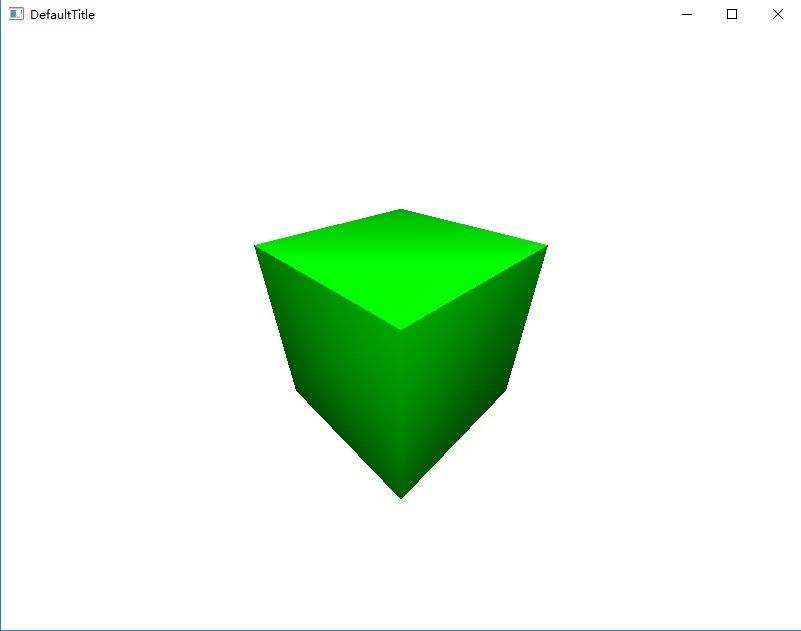
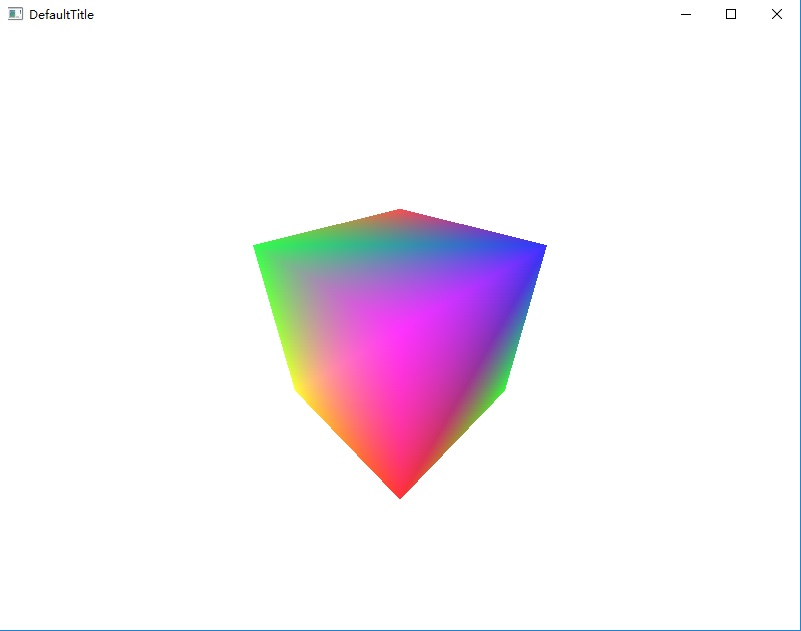
Signed-off-by: zhi <zhi564133873k@126.com>

Changed region(s): [[0.3121, 0.3312, 0.6866, 0.7829], [0.9988, 0.0, 1.0, 1.0], [0.0, 0.0, 0.1248, 0.0301]]

diff --git a/include/zhiDevice.h b/include/zhiDevice.h
@@ -457,18 +457,18 @@ private:
 				if (scanline.v.rhw >= zbuffer[scanline.y][x]) {
 					float w = 1.0f / scanline.v.rhw;
 					zbuffer[scanline.y][x] = scanline.v.rhw;
-					//float r = scanline.v.color.r * w;
-					//float g = scanline.v.color.g * w;
-					//float b = scanline.v.color.b * w;
-					//int R = (int)(r * 255.0f);
-					//int G = (int)(g * 255.0f);
-					//int B = (int)(b * 255.0f);
+					float r = scanline.v.color.r * w;
+					float g = scanline.v.color.g * w;
+					float b = scanline.v.color.b * w;
+					int R = (int)(r * 255.0f);
+					int G = (int)(g * 255.0f);
+					int B = (int)(b * 255.0f);
 					//int R = (int)(r *light.r);
 					//int G = (int)(g*light.g);
 					//int B = (int)(b *light.b);
-					int R = scanline.v.color.r * w;
-					int G = scanline.v.color.g * w;
-					int B = scanline.v.color.b * w;
+					//int R = scanline.v.color.r * w;
+					//int G = scanline.v.color.g * w;
+					//int B = scanline.v.color.b * w;
 					R = CMID(R, 0, 255);
 					G = CMID(G, 0, 255);
 					B = CMID(B, 0, 255);
@@ -702,9 +702,12 @@ private:
 			float i1 = dp1 / (tri.normal.length()*dist1*(ite.kc + ite.kl*dist1 + ite.kq*dist1*dist1));
 			float i2 = dp2 / (tri.normal.length()*dist2*(ite.kc + ite.kl*dist2 + ite.kq*dist2*dist2));
 			float i3 = dp3 / (tri.normal.length()*dist3*(ite.kc + ite.kl*dist3 + ite.kq*dist3*dist3));
-			tri.p1.color *= ite.ambient + (ite.diffuse*i1);
-			tri.p2.color *= ite.ambient + (ite.diffuse*i2);
-			tri.p3.color *= ite.ambient + (ite.diffuse*i3);
+			tri.p1.color *= (ite.ambient + (ite.diffuse*i1));
+			tri.p2.color *= (ite.ambient + (ite.diffuse*i2));
+			tri.p3.color *= (ite.ambient + (ite.diffuse*i3));
+			tri.p1.color = tri.p1.color / 255;
+			tri.p2.color = tri.p2.color / 255;
+			tri.p3.color = tri.p3.color / 255;
 		}
 	}
 };

diff --git a/test/main.cpp b/test/main.cpp
@@ -54,12 +54,12 @@ void insertModel(vertex& p1, vertex& p2, vertex& p3, vertex& p4, unsigned int te
 
 void initObject() {
 	cubeNo = device->newObject();
-	insertModel(cube[0], cube[3], cube[2], cube[1], textureNo, 0x010101);
-	insertModel(cube[4], cube[5], cube[6], cube[7], textureNo, 0x010101);
-	insertModel(cube[0], cube[1], cube[5], cube[4], textureNo, 0x010101);
-	insertModel(cube[1], cube[2], cube[6], cube[5], textureNo, 0x010101);
-	insertModel(cube[2], cube[3], cube[7], cube[6], textureNo, 0x010101);
-	insertModel(cube[3], cube[0], cube[4], cube[7], textureNo, 0x010101);
+	insertModel(cube[0], cube[3], cube[2], cube[1], textureNo);
+	insertModel(cube[4], cube[5], cube[6], cube[7], textureNo);
+	insertModel(cube[0], cube[1], cube[5], cube[4], textureNo);
+	insertModel(cube[1], cube[2], cube[6], cube[5], textureNo);
+	insertModel(cube[2], cube[3], cube[7], cube[6], textureNo);
+	insertModel(cube[3], cube[0], cube[4], cube[7], textureNo);
 }
 
 void init() {
@@ -76,7 +76,7 @@ void init() {
 	device->setLightPosition(Light0, vector_c(4, 7, 4));
 	//device->setLight(Light0, AMBIENT, Color(0xFF0000));
 	device->setLight(Light0, DIFFUSE, Color(0x00FF00));
-	device->activeLight(Light0);
+	//device->activeLight(Light0);
 	mwindow.SetDisplayFunc(DrawFunc);
 	mwindow.SetReSize(reSizeScreen);
 	mwindow.SetKeyDownEvent(VK_UP, forward);

diff --git a/include/figure.h b/include/figure.h
@@ -23,6 +23,7 @@ public:
 	friend Color  operator * (const Color&, const Color&);
 	friend Color  operator * (const Color&, float);
 	friend Color  operator + (const Color&, const Color&);
+	friend Color  operator / (const Color&, float);
 	//friend Color  operator *= (const Color&, float);
 	void  operator *= (const Color&);
 
@@ -147,6 +148,10 @@ Color operator*(const Color & c, float alpha) {
 
 Color operator+(const Color & c1, const Color & c2) {
 	return Color(c1.r + c2.r, c1.g + c2.g, c1.b + c2.b);
+}
+
+Color operator/(const Color & c, float d) {
+	return Color(c.r / d, c.g / d, c.b / d);
 }
 
 //Color operator*=(const Color & c, float alpha) {
